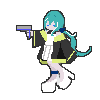
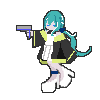
Update twin sister combat sprites and animations

Changed region(s): [[0.54, 0.63, 0.75, 0.9], [0.54, 0.15, 0.66, 0.3], [0.42, 0.15, 0.51, 0.27]]

diff --git a/game/hello-world/index.html b/game/hello-world/index.html
@@ -25,7 +25,7 @@
   <link rel="preconnect" href="https://fonts.googleapis.com" />
   <link rel="preconnect" href="https://fonts.gstatic.com" crossorigin />
   <link href="https://fonts.googleapis.com/css2?family=DotGothic16&family=Press+Start+2P&display=swap" rel="stylesheet" />
-  <link rel="stylesheet" href="styles/styles.css?v=402" />
+  <link rel="stylesheet" href="styles/styles.css?v=403" />
 </head>
 <body>
   <div id="orientation-warning">
@@ -50,27 +50,27 @@
 
   <!-- Game Logic -->
   <script>
-    window.GAME_VERSION = 'v402';
+    window.GAME_VERSION = 'v403';
   </script>
-  <script src="src/logic/audio.js?v=402"></script>
-  <script src="src/logic/flags.js?v=402"></script>
-  <script src="src/logic/endings.js?v=402"></script>
-  <script src="src/logic/controls.js?v=402"></script>
-  <script src="src/logic/enemies.js?v=402"></script>
-  <script src="src/logic/items.js?v=402"></script>
-  <script src="src/logic/doctorDirective.js?v=402"></script>
+  <script src="src/logic/audio.js?v=403"></script>
+  <script src="src/logic/flags.js?v=403"></script>
+  <script src="src/logic/endings.js?v=403"></script>
+  <script src="src/logic/controls.js?v=403"></script>
+  <script src="src/logic/enemies.js?v=403"></script>
+  <script src="src/logic/items.js?v=403"></script>
+  <script src="src/logic/doctorDirective.js?v=403"></script>
 
   <!-- Scenes -->
-  <script src="src/scenes/BootScene.js?v=402"></script>
-  <script src="src/scenes/TitleScene.js?v=402"></script>
-  <script src="src/scenes/StoryScene.js?v=402"></script>
-  <script src="src/scenes/GameScene.js?v=402"></script>
-  <script src="src/scenes/EndingScene.js?v=402"></script>
-  <script src="src/scenes/BossScene.js?v=402"></script>
+  <script src="src/scenes/BootScene.js?v=403"></script>
+  <script src="src/scenes/TitleScene.js?v=403"></script>
+  <script src="src/scenes/StoryScene.js?v=403"></script>
+  <script src="src/scenes/GameScene.js?v=403"></script>
+  <script src="src/scenes/EndingScene.js?v=403"></script>
+  <script src="src/scenes/BossScene.js?v=403"></script>
 
   <!-- Core -->
-  <script src="src/config.js?v=402"></script>
-  <script src="src/main.js?v=402"></script>
+  <script src="src/config.js?v=403"></script>
+  <script src="src/main.js?v=403"></script>
 
   <script>
     // 全画面表示（フルスクリーン）切り替え

diff --git a/game/hello-world/src/scenes/BossScene.js b/game/hello-world/src/scenes/BossScene.js
@@ -253,13 +253,11 @@ class BossScene extends Phaser.Scene {
         this.anims.create({
           key: 'sister_shoot_anim',
           frames: [
-            { key: 'sister_shoot1', duration: 1500 },
+            { key: 'sister_shoot1', duration: 400 },
+            { key: 'sister_shoot2', duration: 400 },
+            { key: 'sister_shoot1', duration: 400 },
             { key: 'sister_shoot1_blink', duration: 150 },
-            { key: 'sister_shoot1', duration: 1500 },
-            { key: 'sister_shoot1_blink', duration: 150 },
-            { key: 'sister_shoot2', duration: 1500 },
-            { key: 'sister_shoot2_blink', duration: 150 },
-            { key: 'sister_shoot2', duration: 1500 },
+            { key: 'sister_shoot2', duration: 400 },
             { key: 'sister_shoot2_blink', duration: 150 }
           ],
           repeat: -1
